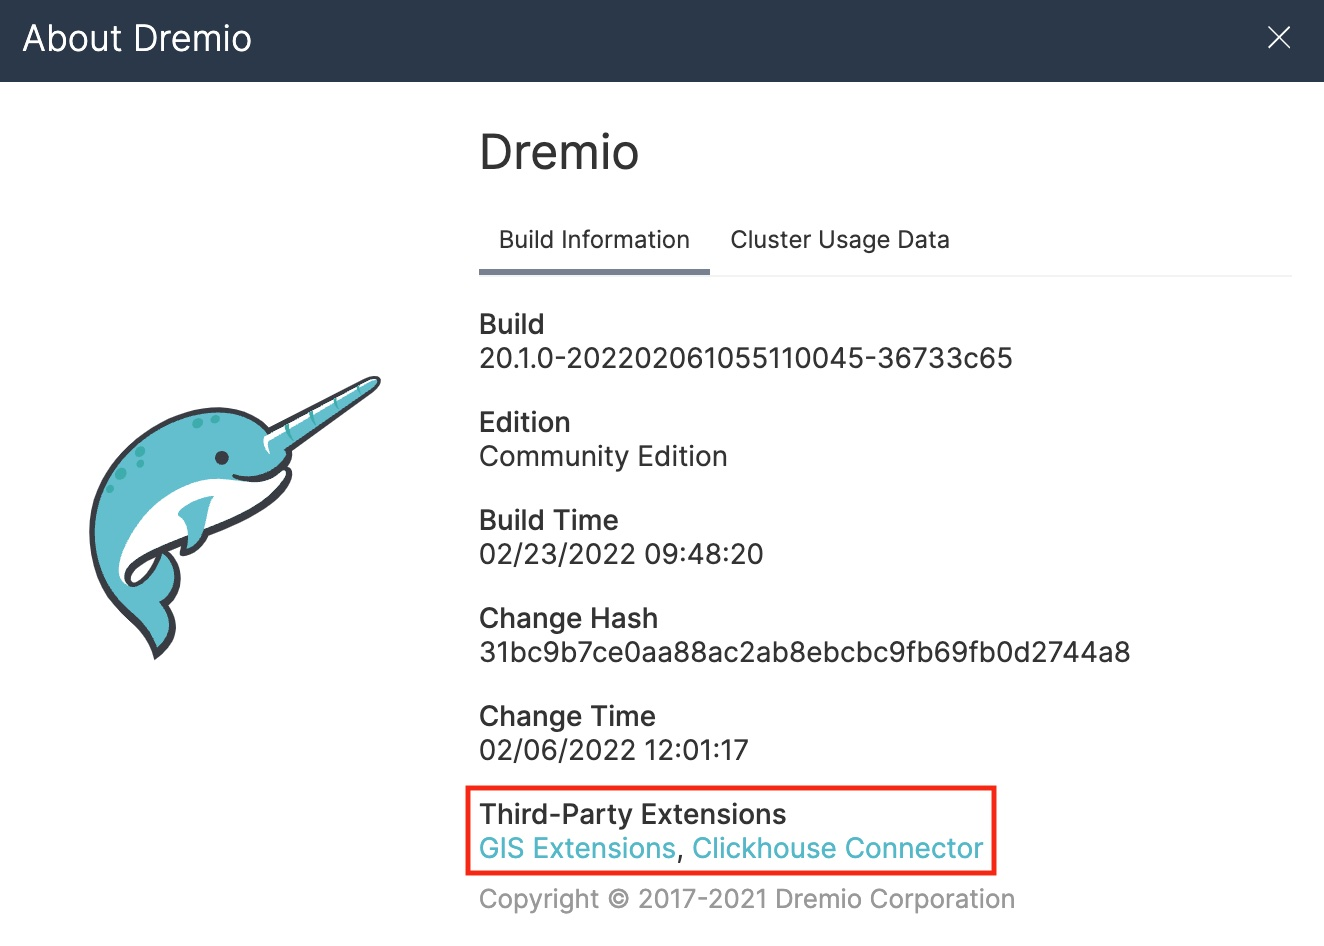
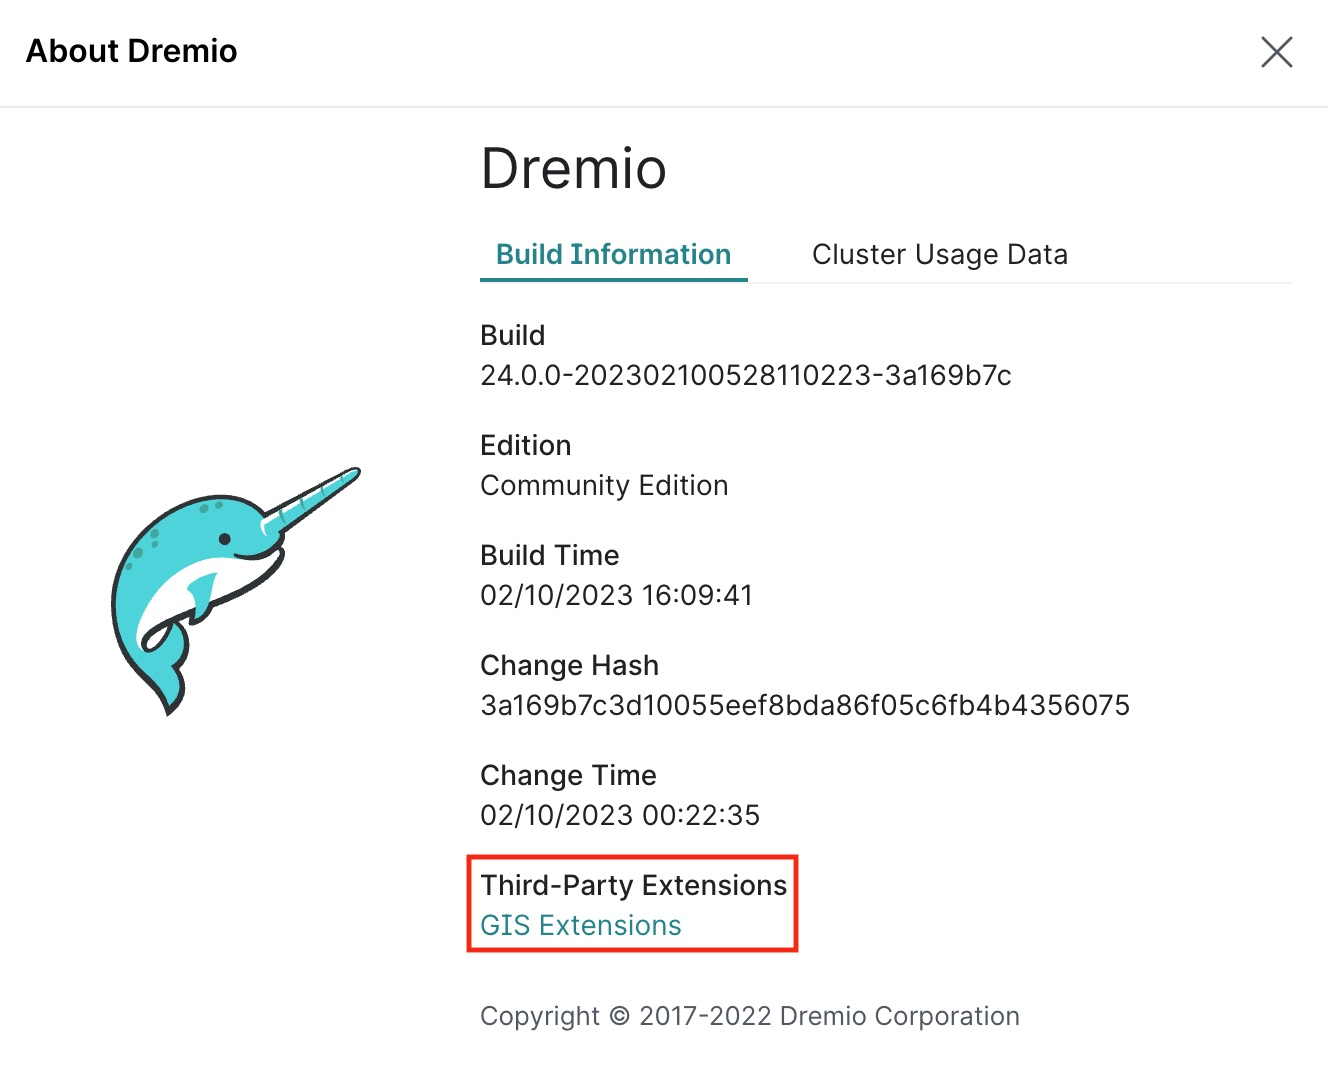
Updated for Dremio 24.0.0, Removed ClickHouse Driver

diff --git a/README.md b/README.md
@@ -10,11 +10,7 @@ an absolute maximum but will not inflate the size smaller values.
    - Moved default size to 10,485,759 bytes from 31,999 bytes
    - Moved maximum size to 10,485,759 bytes from 65,536 bytes 
 
-2. Incorporate support for ClickHouse as a Datasource from:
-
-   - https://github.com/Dezota/dremio-clickhouse-connector
-
-3. Incorporate GIS functionality including GIS function search in *Dremio Analyst
+2. Incorporate GIS functionality including GIS function search in *Dremio Analyst
 Center* UI
 
    - https://github.com/Dezota/dremio-gis-extensions
@@ -38,7 +34,7 @@ docker pull dezota/dremio-oss-with-ext:23.0.1-1
 
 Here is the digest for the this version on hub.docker.com:
 ```
-23.1.0-1: digest: sha256:b0f8f1cf35eebda9c578a3dc232d6e7a41a290d7d1bea3e6f4f8eaed649c4919 size: 2631
+24.0.0-1: digest: sha256:a477f178da0addc878b7aab970897535a4e238a6b45302ed5e1fd9fd86d8a78f size: 2631
 ````
 
 *Comment out build line in docker-compose.yml:*
